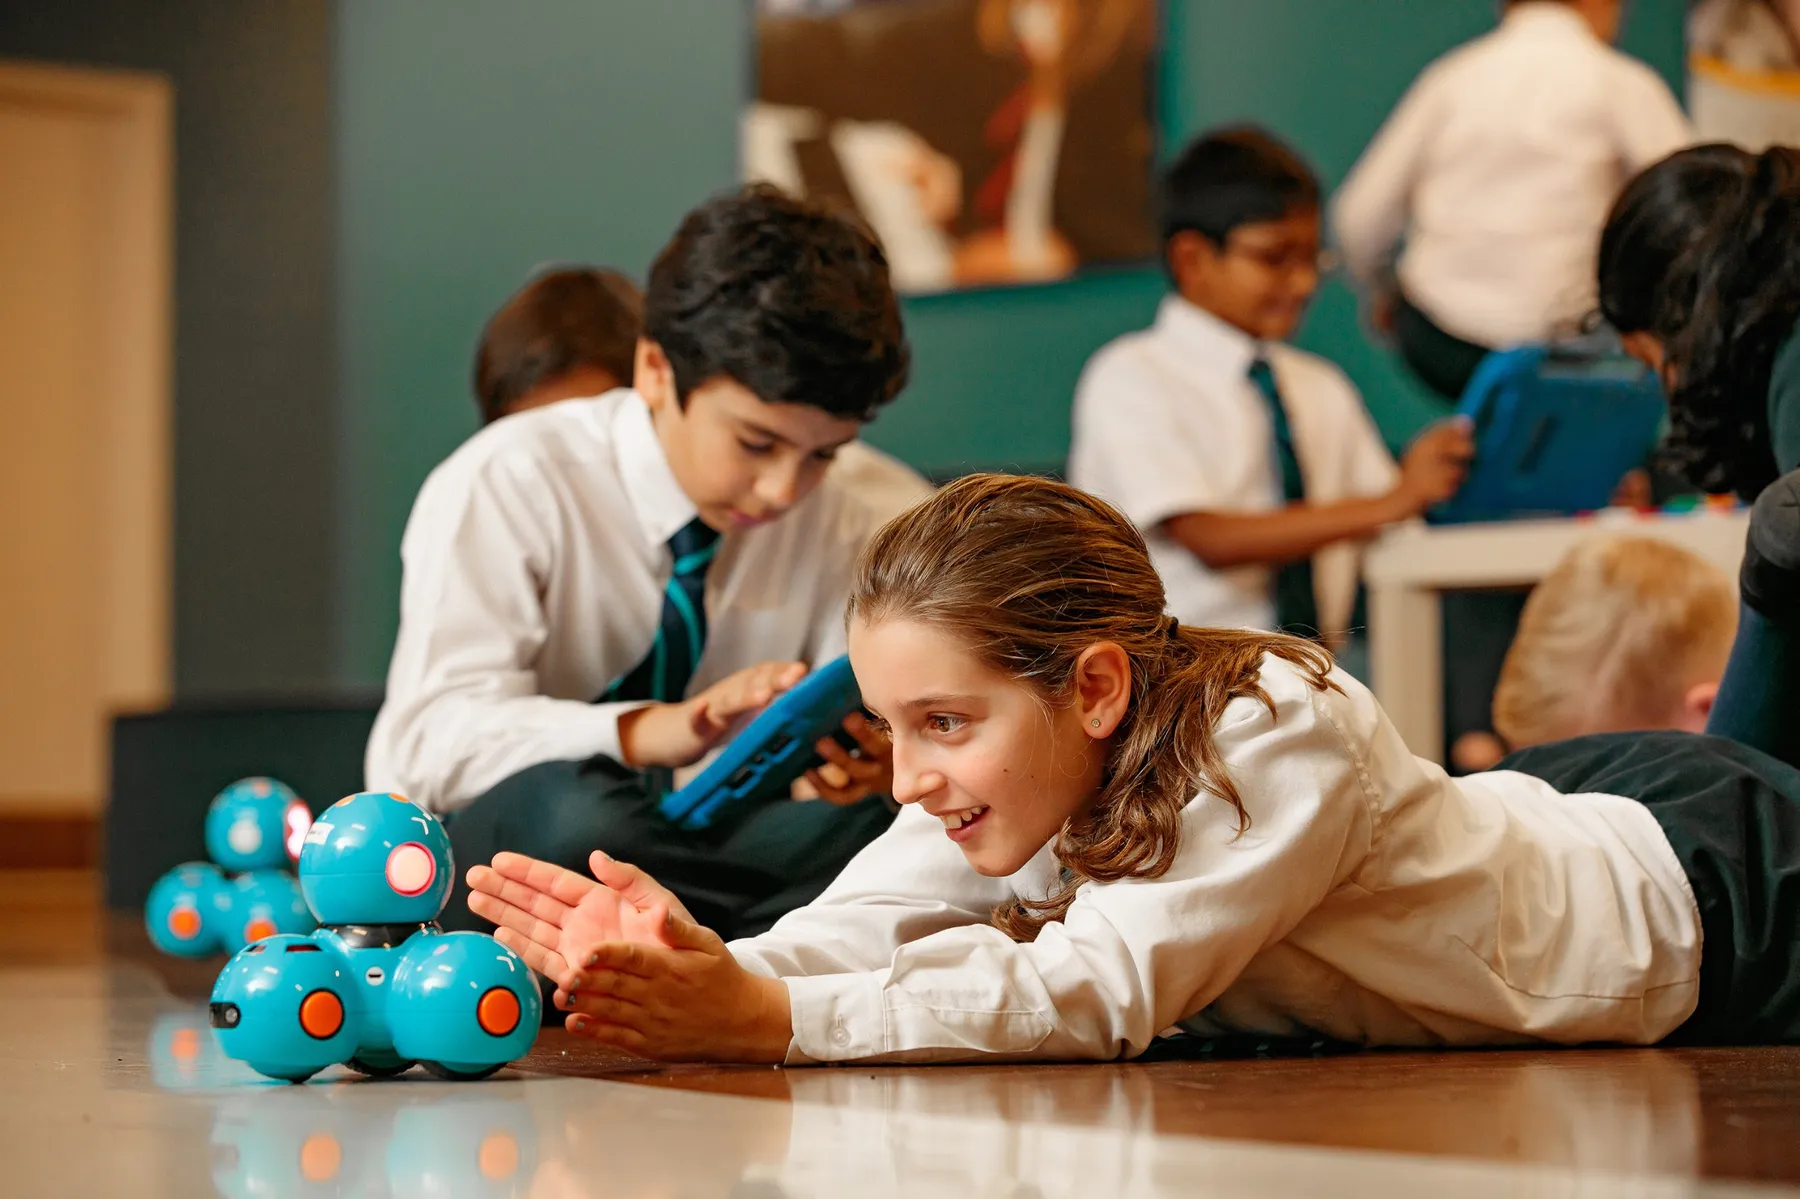
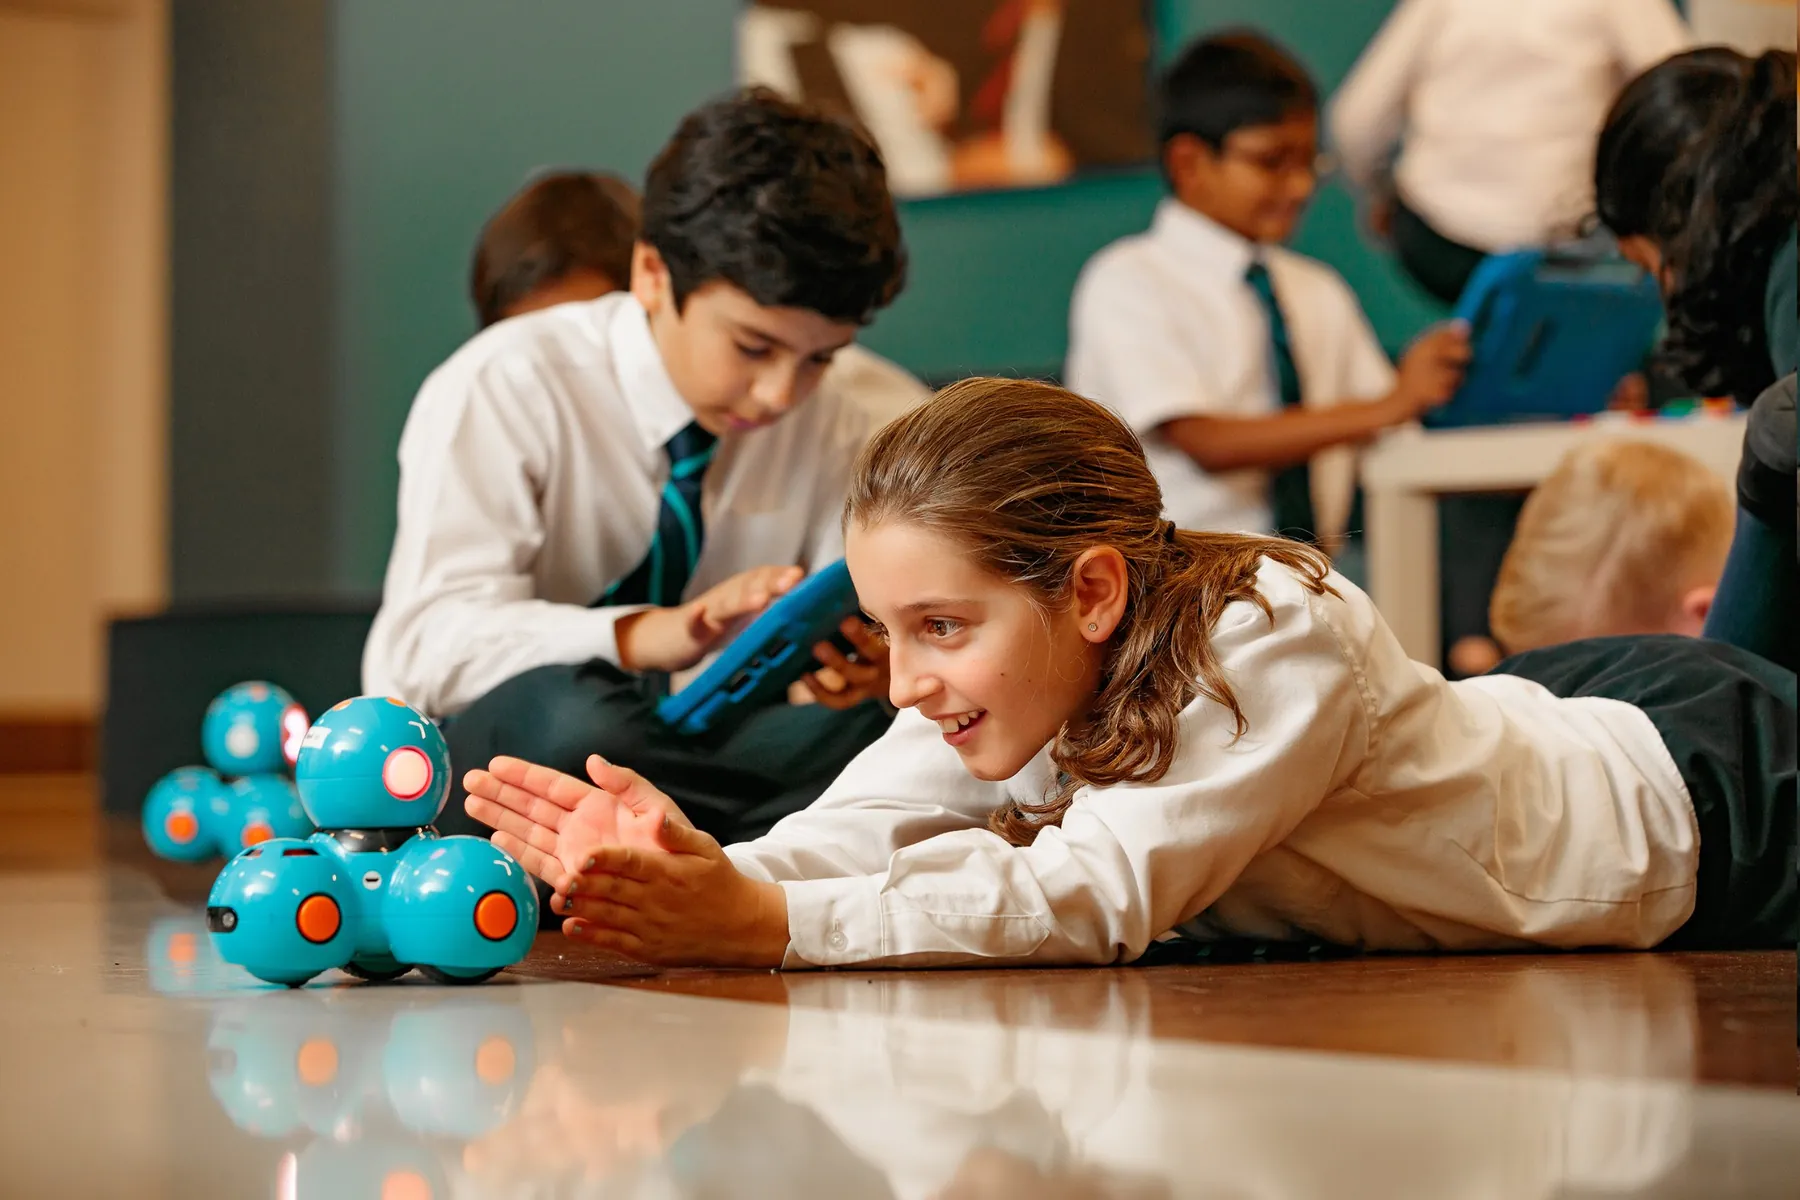
Robotics photo: new looser version with more floor; normal parallax restored
Claude-Session: https://claude.ai/code/session_01Mm2aJVR2P7YkvZrBGkY7bN

diff --git a/_build/static/misses-the-mark.html b/_build/static/misses-the-mark.html
@@ -346,7 +346,7 @@ img{-webkit-user-drag:none;user-select:none;-webkit-touch-callout:none}
 <div class="note"><b>Exception to the rule</b><i>Sometimes, less is more.</i> For hero imagery—like poster or billboard shots—a busy narrative can actually distract. A clean, minimal focus on a single student or teacher creates a stronger visual impact and leaves room for headline copy and graphics to deliver the message.</div>
 </div></div></div></section>
 
-<figure class="bleed slide px"><img loading="lazy" src="ff-authenticity.webp" data-fx=".5" data-fy=".62" data-ft=".6" data-r=".01" alt="A delighted girl lies on the floor guiding a small coding robot as classmates work on tablets behind her">
+<figure class="bleed slide px"><img loading="lazy" src="ff-authenticity.webp" alt="A delighted girl lies on the floor guiding a small coding robot as classmates work on tablets behind her">
 <figcaption class="panel tl"><div class="on"><span>01</span>Does it look good?</div><div class="on"><span>02</span>Does it feel good?</div><div class="on"><span>03</span>Does it tell a story?</div><div><span>04</span><i>Is it believable?</i></div></figcaption></figure>
 
 <section class="crit dark slide"><div class="wrap">

diff --git a/misses-the-mark.html b/misses-the-mark.html
@@ -346,7 +346,7 @@ img{-webkit-user-drag:none;user-select:none;-webkit-touch-callout:none}
 <div class="note"><b>Exception to the rule</b><i>Sometimes, less is more.</i> For hero imagery—like poster or billboard shots—a busy narrative can actually distract. A clean, minimal focus on a single student or teacher creates a stronger visual impact and leaves room for headline copy and graphics to deliver the message.</div>
 </div></div></div></section>
 
-<figure class="bleed slide px"><img loading="lazy" src="ff-authenticity.webp" data-fx=".5" data-fy=".62" data-ft=".6" data-r=".01" alt="A delighted girl lies on the floor guiding a small coding robot as classmates work on tablets behind her">
+<figure class="bleed slide px"><img loading="lazy" src="ff-authenticity.webp" alt="A delighted girl lies on the floor guiding a small coding robot as classmates work on tablets behind her">
 <figcaption class="panel tl"><div class="on"><span>01</span>Does it look good?</div><div class="on"><span>02</span>Does it feel good?</div><div class="on"><span>03</span>Does it tell a story?</div><div><span>04</span><i>Is it believable?</i></div></figcaption></figure>
 
 <section class="crit dark slide"><div class="wrap">
